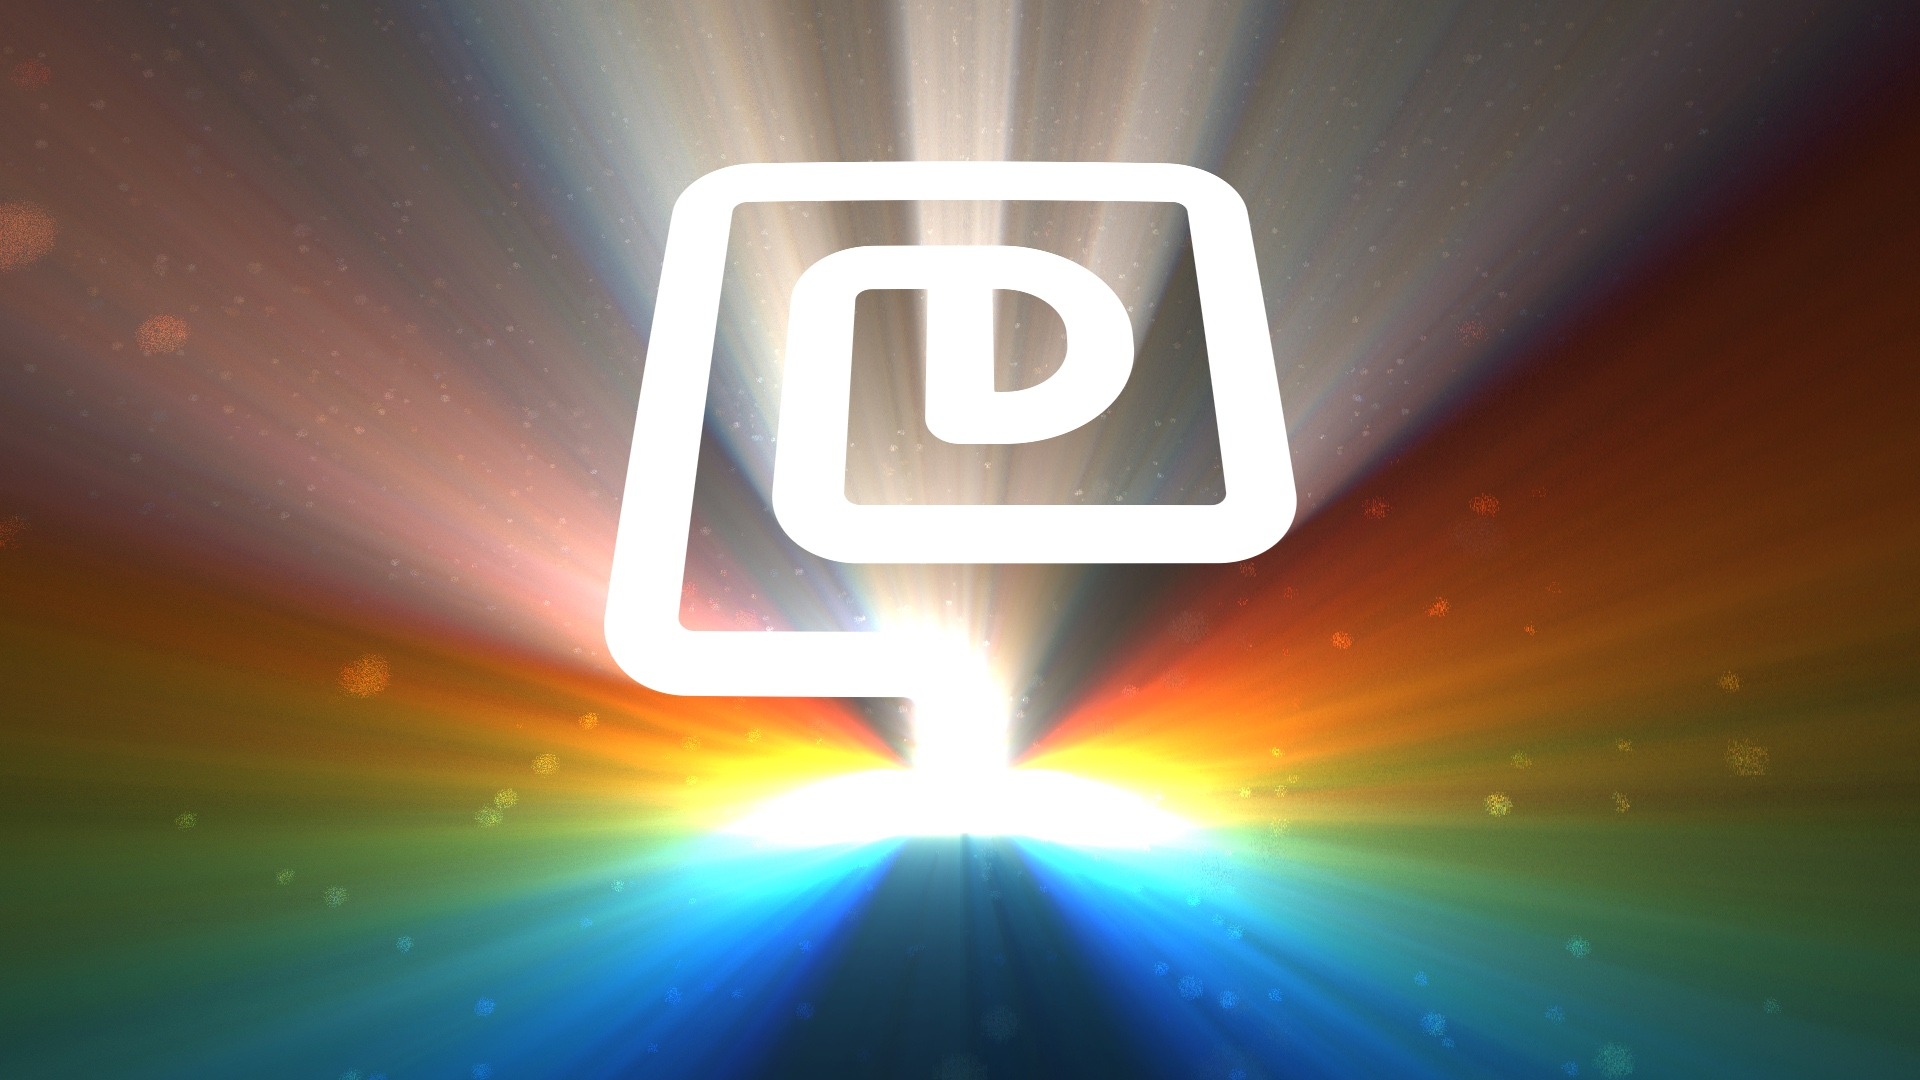
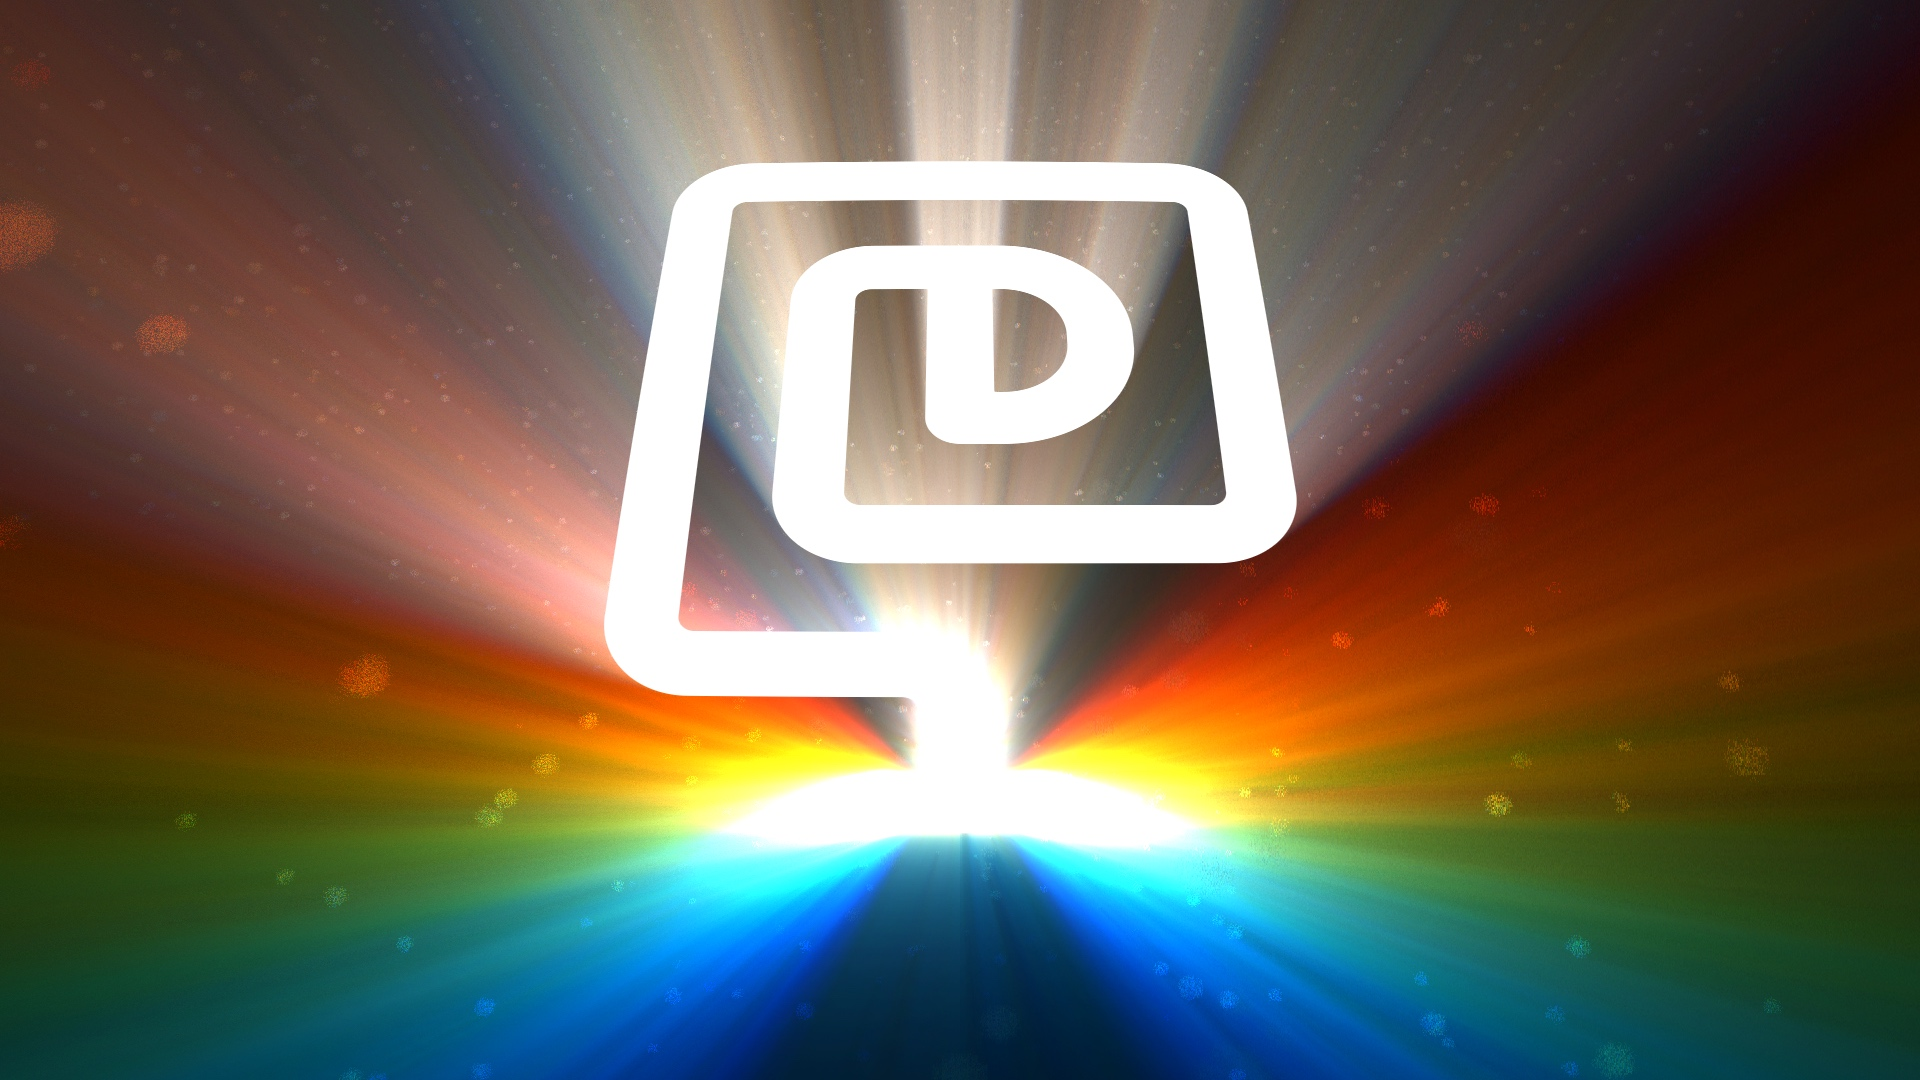
Add gamma and saturation control

diff --git a/src/Renderer.js b/src/Renderer.js
@@ -204,14 +204,37 @@ precision mediump float;
 uniform sampler2D shape;
 uniform sampler2D outside;
 uniform sampler2D inside;
+uniform float gamma;
+uniform float saturation;
 in vec2 uv;
 out vec4 col;
+
+const float kR = 0.299;
+const float kB = 0.114;
+const float kG = 1.0 - kR - kB;
+const mat3 colmat = mat3(
+  vec3(kR, -0.5 * kR / (1.0 - kB), 0.5),
+  vec3(kG, -0.5 * kG / (1.0 - kB), -0.5 * kG / (1.0 - kR)),
+  vec3(kB, 0.5, -0.5 * kB / (1.0 - kR))
+);
+const mat3 icolmat = inverse(colmat);
+
+vec3 adjust(vec3 c) {
+  vec3 yrb = colmat * c;
+  yrb.x = pow(yrb.x, gamma);
+  yrb.yz *= saturation;
+  return clamp(icolmat * yrb, 0.0, 1.0);
+}
 
 void main(void) {
   float edge = texture(shape, uv).w;
   vec3 outsideCol = texture(outside, uv).xyz;
   vec3 insideCol = texture(inside, uv).xyz;
-  col = vec4(mix(outsideCol, min(insideCol + outsideCol, 1.0), edge), 1.0);
+  col = vec4(mix(
+    adjust(outsideCol),
+    adjust(insideCol + outsideCol),
+    edge
+  ), 1.0);
 }`;
 
 const DUST_UPDATE_VERT = `#version 300 es
@@ -458,6 +481,8 @@ class Renderer {
       .withUniform1i('shape')
       .withUniform1i('outside')
       .withUniform1i('inside')
+      .withUniform1f('gamma')
+      .withUniform1f('saturation')
       .link();
 
     this.quadVertexArray = this.ctx.createVertexArray();
@@ -698,6 +723,8 @@ class Renderer {
       shape: { index: 0, texture: this.shapeTex },
       outside: { index: 1, texture: this.outsideTex },
       inside: { index: 2, texture: this.insideTex },
+      gamma: config.gamma,
+      saturation: config.saturation,
     });
     this.ctx.drawArrays(GL.TRIANGLE_STRIP, 0, 4);
 

diff --git a/src/ui.js b/src/ui.js
@@ -154,6 +154,8 @@ function getConfig(full) {
     lights,
     fog: getValue('fog'),
     grid: document.getElementsByName('grid')[0].checked,
+    gamma: getValue('gamma'),
+    saturation: getValue('saturation'),
     view: getView(),
   };
 }
@@ -168,6 +170,8 @@ function setConfig(config) {
   setValue('dustopacity', config.dust?.opacity ?? 0);
   setValue('dustreflectivity', config.dust?.reflectivity ?? 0);
   setValue('fog', config.fog ?? 0);
+  setValue('gamma', config.gamma ?? 1);
+  setValue('saturation', config.saturation ?? 1);
   document.getElementsByName('grid')[0].checked = config.grid;
   setView(config.view ?? {});
 }

diff --git a/index.html b/index.html
@@ -30,6 +30,8 @@
         <legend>Scene</legend>
         <label>Fog <input name="fog" type="range" value="0.2" min="0" max="1" step="any" /></label>
         <label>Trace <input name="trace" type="range" value="0.25" min="0" max="1" step="any" /></label>
+        <label>Gamma <input name="gamma" type="range" value="1.2" min="0" max="2" step="any" /></label>
+        <label>Saturation <input name="saturation" type="range" value="1.2" min="0" max="2" step="any" /></label>
         <label><input name="grid" type="checkbox" /> Grid</label>
       </fieldset>
       <fieldset>

diff --git a/README.md b/README.md
@@ -3,7 +3,6 @@
 A WebGL2 raytracer for light rays through a stencil in a foggy environment.
 
 Configured to render the [davidje13.com](https://davidje13.com/) logo.
+[![render1](docs/render1.jpg)](https://davidje13.github.io/Raycast/#{"resolution":1,"lightQuality":70,"time":0,"stencil":{"frame":0.875967920353982,"trace":0.25},"dust":{"opacity":0.3,"reflectivity":1},"lights":[{"pos":{"x":0,"y":-0.66924778761062,"z":-2.2678990590744057},"col":{"r":7.72409167607463,"g":0.341096106157055,"b":0}},{"pos":{"x":0,"y":-0.66924778761062,"z":-2.1858691274694744},"col":{"r":7.6026118594129,"g":2.13440232286792,"b":0}},{"pos":{"x":0,"y":-0.66924778761062,"z":-2.1086328688068723},"col":{"r":6.26633387613394,"g":3.59249340076927,"b":0}},{"pos":{"x":0,"y":-0.66924778761062,"z":-2.0357551669189085},"col":{"r":3.71525772623773,"g":4.46734804751008,"b":0}},{"pos":{"x":0,"y":-0.66924778761062,"z":-1.9668517997855208},"col":{"r":0.5213508798399,"g":4.75896626309035,"b":0.521350879839899}},{"pos":{"x":0,"y":-0.66924778761062,"z":-1.9015822015875694},"col":{"r":0,"g":4.46734804751008,"b":3.71525772623773}},{"pos":{"x":0,"y":-0.66924778761062,"z":-1.83964342564615},"col":{"r":0,"g":3.59249340076927,"b":6.26633387613393}},{"pos":{"x":0,"y":-0.66924778761062,"z":-1.7807650820426582},"col":{"r":0,"g":2.13440232286792,"b":7.6026118594129}},{"pos":{"x":0,"y":-0.66924778761062,"z":-1.7247050711340774},"col":{"r":0,"g":0.341096106157055,"b":7.72409167607463}}],"fog":0.35,"grid":false,"gamma":1.2,"saturation":1.2,"view":{"fovy":0.6544984694978736,"eyeSeparation":0,"camera":{"x":0,"y":1.56941371681416,"z":2.10418971238938},"focus":{"x":0,"y":-0.0373340707964602,"z":0},"up":{"x":0,"y":0,"z":1}}})
 
-[![render1](docs/render1.jpg)](https://davidje13.github.io/Raycast/#{"resolution":1,"lightQuality":70,"time":0,"stencil":{"frame":0.875967920353982,"trace":0.25},"dust":{"opacity":0.3,"reflectivity":1},"lights":[{"pos":{"x":0,"y":-0.66924778761062,"z":-2.2678990590744057},"col":{"r":7.76337372688978,"g":0.342830802628411,"b":0}},{"pos":{"x":0,"y":-0.66924778761062,"z":-2.1858691274694744},"col":{"r":7.64127610602126,"g":2.14525715266838,"b":0}},{"pos":{"x":0,"y":-0.66924778761062,"z":-2.1086328688068723},"col":{"r":6.29820227646759,"g":3.61076357598732,"b":0}},{"pos":{"x":0,"y":-0.66924778761062,"z":-2.0357551669189085},"col":{"r":3.73415223822876,"g":4.49006742997868,"b":0}},{"pos":{"x":0,"y":-0.66924778761062,"z":-1.9668517997855208},"col":{"r":0.524002289560712,"g":4.78316871464247,"b":0.524002289560712}},{"pos":{"x":0,"y":-0.66924778761062,"z":-1.9015822015875694},"col":{"r":0,"g":4.49006742997868,"b":3.73415223822877}},{"pos":{"x":0,"y":-0.66924778761062,"z":-1.83964342564615},"col":{"r":0,"g":3.61076357598732,"b":6.29820227646758}},{"pos":{"x":0,"y":-0.66924778761062,"z":-1.7807650820426582},"col":{"r":0,"g":2.14525715266838,"b":7.64127610602126}},{"pos":{"x":0,"y":-0.66924778761062,"z":-1.7247050711340774},"col":{"r":0,"g":0.342830802628411,"b":7.76337372688978}}],"fog":0.35,"grid":false,"view":{"fovy":0.6544984694978736,"eyeSeparation":0,"camera":{"x":0,"y":1.56941371681416,"z":2.10418971238938},"focus":{"x":0,"y":-0.0373340707964602,"z":0},"up":{"x":0,"y":0,"z":1}}})
-
-[![render2](docs/render2.jpg)](https://davidje13.github.io/Raycast/#{"resolution":2,"lightQuality":70,"time":0,"stencil":{"frame":1,"trace":0.25},"dust":{"opacity":0.3,"reflectivity":1},"lights":[{"pos":{"x":0,"y":-0.166620575221239,"z":-2.301885537113461},"col":{"r":7.47599451303155,"g":0.330140128443232,"b":0}},{"pos":{"x":0,"y":-0.166620575221239,"z":-2.408908943741008},"col":{"r":7.35841661767588,"g":2.0658455030756,"b":0}},{"pos":{"x":0,"y":-0.166620575221239,"z":-2.5247094101336156},"col":{"r":6.06505976876347,"g":3.47710282044479,"b":0}},{"pos":{"x":0,"y":-0.166620575221239,"z":-2.6504829388550677},"col":{"r":3.59592396629434,"g":4.3238572108663,"b":0}},{"pos":{"x":0,"y":-0.166620575221239,"z":-2.787652501418724},"col":{"r":0.504605134234764,"g":4.60610867434014,"b":0.504605134234764}},{"pos":{"x":0,"y":-0.166620575221239,"z":-2.937924598100105},"col":{"r":0,"g":4.3238572108663,"b":3.59592396629434}},{"pos":{"x":0,"y":-0.166620575221239,"z":-3.103363617423807},"col":{"r":0,"g":3.47710282044479,"b":6.06505976876347}},{"pos":{"x":0,"y":-0.166620575221239,"z":-3.286490892398217},"col":{"r":0,"g":2.0658455030756,"b":7.35841661767588}},{"pos":{"x":0,"y":-0.166620575221239,"z":-3.490418583830157},"col":{"r":0,"g":0.330140128443232,"b":7.47599451303155}}],"fog":0.35,"grid":false,"view":{"fov":0.6153299217104456,"eyeSeparation":0,"camera":{"x":0,"y":0.00691371681416,"z":4.64567201327434},"focus":{"x":0,"y":-0.0027654867256636,"z":0},"up":{"x":0,"y":-1,"z":1}}})
+[![render2](docs/render2.jpg)](https://davidje13.github.io/Raycast/#{"resolution":1,"lightQuality":70,"time":0,"stencil":{"frame":1,"trace":0.25},"dust":{"opacity":0.3,"reflectivity":1.5},"lights":[{"pos":{"x":0,"y":-0.166620575221239,"z":-2.301885537113461},"col":{"r":7.47599451303155,"g":0.330140128443232,"b":0}},{"pos":{"x":0,"y":-0.166620575221239,"z":-2.408908943741008},"col":{"r":7.35841661767588,"g":2.0658455030756,"b":0}},{"pos":{"x":0,"y":-0.166620575221239,"z":-2.5247094101336156},"col":{"r":6.06505976876347,"g":3.47710282044479,"b":0}},{"pos":{"x":0,"y":-0.166620575221239,"z":-2.6504829388550677},"col":{"r":3.59592396629434,"g":4.3238572108663,"b":0}},{"pos":{"x":0,"y":-0.166620575221239,"z":-2.787652501418724},"col":{"r":0.504605134234764,"g":4.60610867434014,"b":0.504605134234764}},{"pos":{"x":0,"y":-0.166620575221239,"z":-2.937924598100105},"col":{"r":0,"g":4.3238572108663,"b":3.59592396629434}},{"pos":{"x":0,"y":-0.166620575221239,"z":-3.103363617423807},"col":{"r":0,"g":3.47710282044479,"b":6.06505976876347}},{"pos":{"x":0,"y":-0.166620575221239,"z":-3.286490892398217},"col":{"r":0,"g":2.0658455030756,"b":7.35841661767588}},{"pos":{"x":0,"y":-0.166620575221239,"z":-3.490418583830157},"col":{"r":0,"g":0.330140128443232,"b":7.47599451303155}}],"fog":0.35,"grid":false,"gamma":1,"saturation":1.2,"view":{"fovy":0.46149744128283376,"eyeSeparation":0,"camera":{"x":0,"y":0.00691371681416,"z":4.64567201327434},"focus":{"x":0,"y":-0.0027654867256636,"z":0},"up":{"x":0,"y":-1,"z":1}}})
